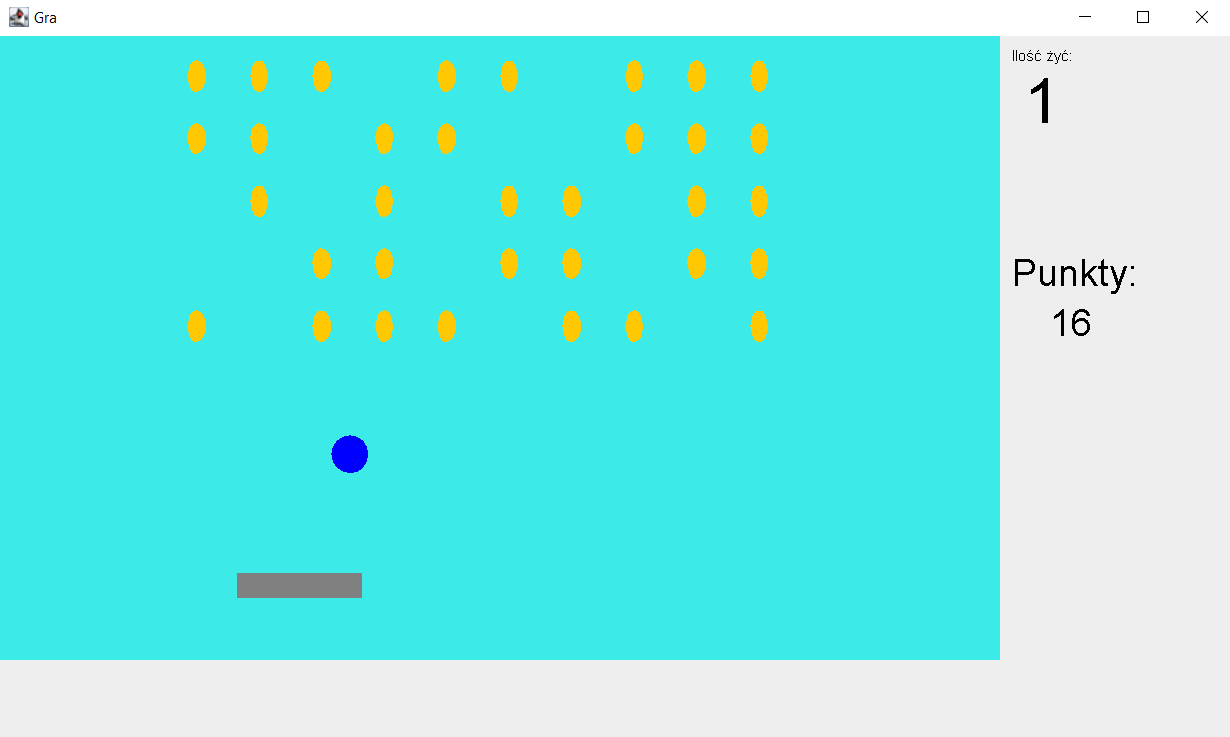
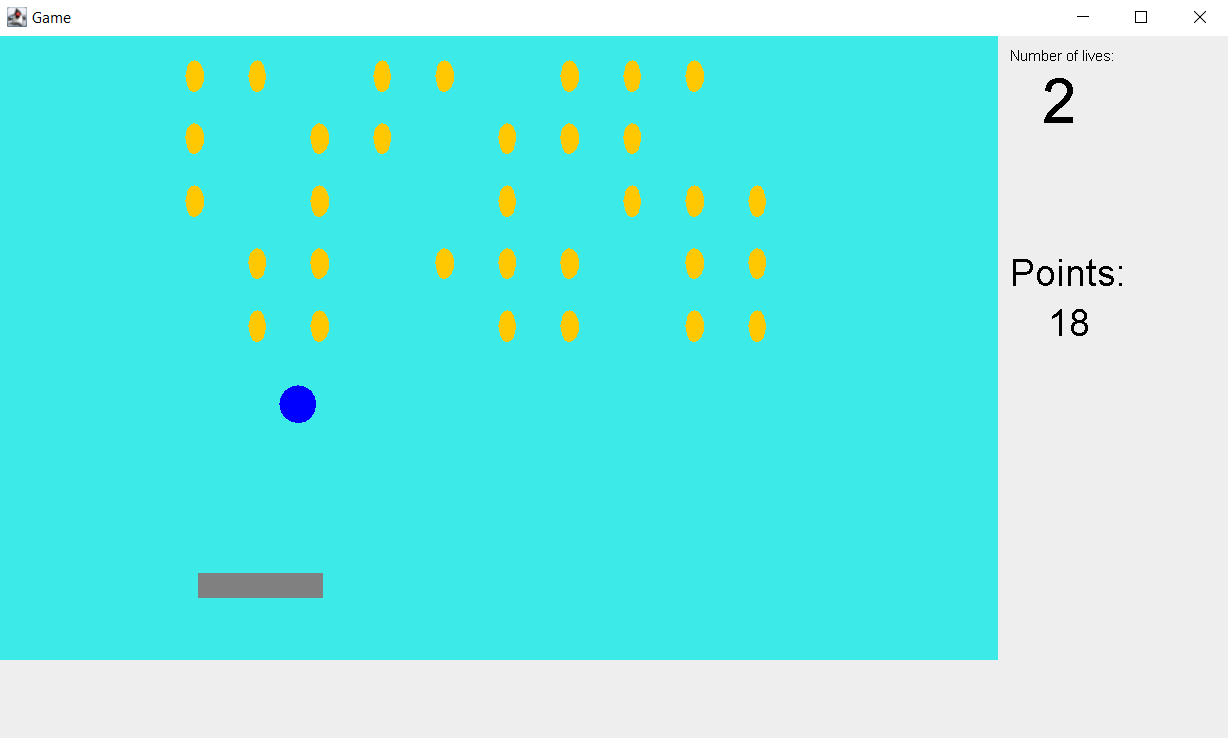
translate labels

diff --git a/src/main/java/pl/pp/palette/MyComponent.java b/src/main/java/pl/pp/palette/MyComponent.java
@@ -58,13 +58,13 @@ public class MyComponent extends JComponent {
         graphics2d.fill(Palette.getShape());
 
         graphics2d.setPaint(Color.BLACK);
-        graphics2d.drawString("Ilość żyć: ", Utils.maxWidth + 10, 20);
+        graphics2d.drawString("Number of lives: ", Utils.maxWidth + 10, 20);
         graphics2d.setFont(graphics2d.getFont().deriveFont(50.0F));
-        graphics2d.drawString(String.valueOf(Utils.lives), Utils.maxWidth + 20, 70);
+        graphics2d.drawString(String.valueOf(Utils.lives), Utils.maxWidth + 35, 70);
 
         graphics2d.setPaint(Color.BLACK);
         graphics2d.setFont(graphics2d.getFont().deriveFont(30.0F));
-        graphics2d.drawString("Punkty: ", Utils.maxWidth + 10, 200);
+        graphics2d.drawString("Points: ", Utils.maxWidth + 10, 200);
         graphics2d.drawString(String.valueOf(points), Utils.maxWidth + 40, 240);
 
 
@@ -73,7 +73,7 @@ public class MyComponent extends JComponent {
             graphics2d.fill(limit2);
             graphics2d.setPaint(Color.BLACK);
             graphics2d.setFont(graphics2d.getFont().deriveFont(50.0F));
-            graphics2d.drawString("Przegrałeś, koniec gry", 30, 100);
+            graphics2d.drawString("You lost, game over", 30, 100);
         }
 
         if ( win() ) {
@@ -81,7 +81,7 @@ public class MyComponent extends JComponent {
             graphics2d.fill(limit2);
             graphics2d.setPaint(Color.BLACK);
             graphics2d.setFont(graphics2d.getFont().deriveFont(50.0F));
-            graphics2d.drawString("Wygrałeś, koniec gry", 30, 100);
+            graphics2d.drawString("You win, game over", 30, 100);
         }
 
     }

diff --git a/src/main/java/pl/pp/palette/MyFrame.java b/src/main/java/pl/pp/palette/MyFrame.java
@@ -5,7 +5,7 @@ import javax.swing.*;
 public class MyFrame extends JFrame {
 
     public MyFrame() {
-        setTitle("Gra");
+        setTitle("Game");
         setDefaultCloseOperation(JFrame.EXIT_ON_CLOSE);
         setSize(1000, 600);
 

diff --git a/readme.md b/readme.md
@@ -17,7 +17,7 @@ We can collect coins and catch ball with a palette.
 ## Features
 - Board
 - Coins and palette
-- Amount lifes
+- Number of lives
 - Amount of collected coins
 
 ### Functions of game
